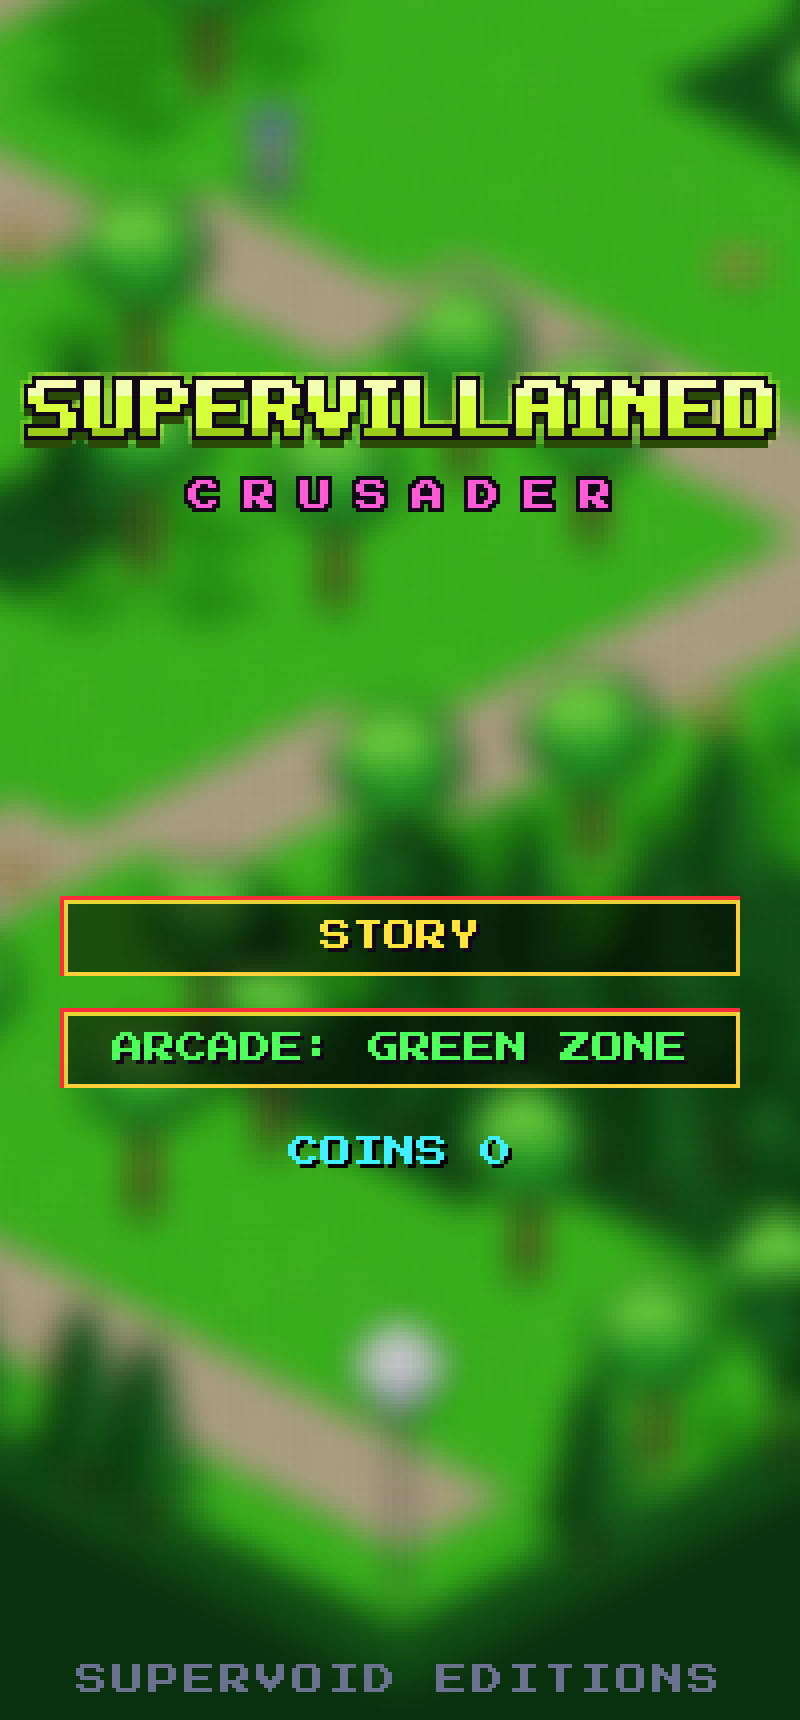
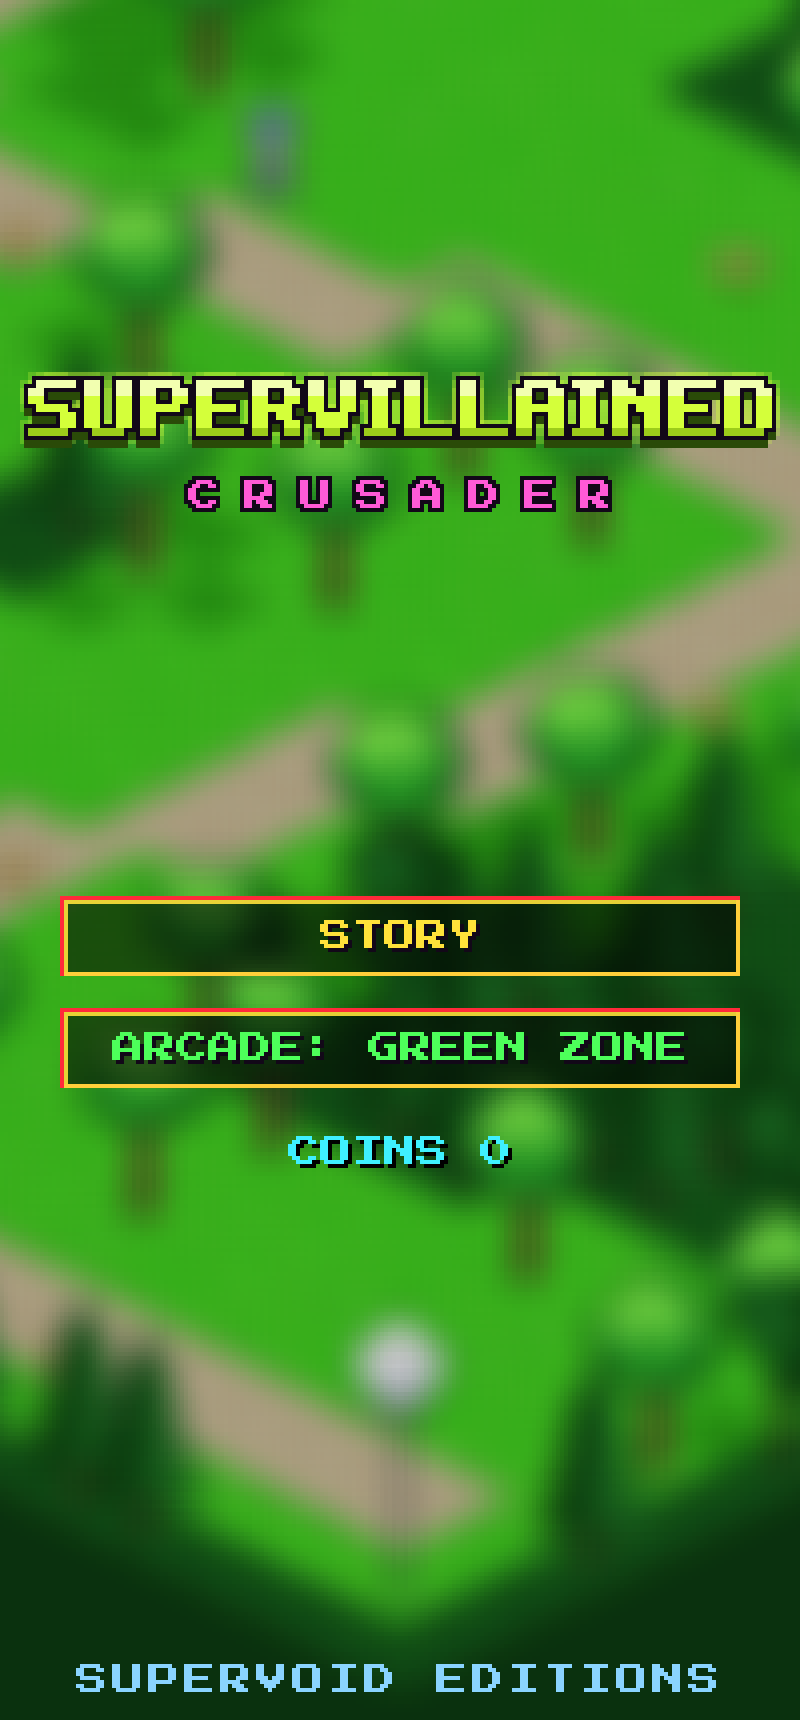
Start the intro music at launch in the app; light-blue footer
In the Android app (Capacitor's WebView needs no gesture for media) the
audio engine starts right away, so the intro music plays as soon as the
title appears. Browsers still start it on the first tap, as they must.
SUPERVOID EDITIONS on the title is now light blue.

Claude-Session: https://claude.ai/code/session_01M83brc3uYNtkMe9oqkk4LQ

Changed region(s): [[0.0938, 0.9552, 0.5, 0.986], [0.5312, 0.9552, 0.9062, 0.986]]

diff --git a/src/core/audio.ts b/src/core/audio.ts
@@ -53,6 +53,9 @@ export class AudioEngine {
         if (this.playingElement && this.wantMusic) void this.playingElement.play().catch(() => {});
       }
     });
+    // Where sound may start without a tap (the Android app: Capacitor's WebView drops the gesture
+    // requirement), start now so the intro music plays as soon as the title appears.
+    if (autoplayAllowed()) this.unlock();
   }
 
   get ready(): boolean {
@@ -258,6 +261,18 @@ export class AudioEngine {
       // Not allowed yet (no gesture): the next unlock() retries.
       if (this.playingElement === playing) this.playingElement = null;
     });
+  }
+}
+
+/** True in the native app, or in a browser that says audio may start without a user gesture. */
+function autoplayAllowed(): boolean {
+  const w = window as unknown as { Capacitor?: { isNativePlatform?: () => boolean } };
+  if (w.Capacitor?.isNativePlatform?.()) return true;
+  const nav = navigator as Navigator & { getAutoplayPolicy?: (type: 'audiocontext') => string };
+  try {
+    return nav.getAutoplayPolicy?.('audiocontext') === 'allowed';
+  } catch {
+    return false;
   }
 }
 

diff --git a/src/scenes/overlays.ts b/src/scenes/overlays.ts
@@ -57,7 +57,7 @@ export class TitleScene extends Overlay {
   private readonly best: PixelText;
   private readonly menu: Menu;
   /** Publisher line: the smallest crisp size of the pixel font (scale 1), dimmed. */
-  private readonly footer = new PixelText('SUPERVOID EDITIONS', { color: '#6a7290', letterSpacing: 1 }).setOrigin(0.5, 1);
+  private readonly footer = new PixelText('SUPERVOID EDITIONS', { color: '#8ad4ff', letterSpacing: 1 }).setOrigin(0.5, 1);
 
   constructor(
     game: Game,

diff --git a/DECISIONS.md b/DECISIONS.md
@@ -321,5 +321,7 @@ itself that it "is not a playable build"; this phase turns it into one, on the s
   puddle; `siren` loops under the "under attack" alarm until the attack ends (and is the fire alarm
   in 7.4); `laser-eyes` is Bagnaskiz's hit on Zampanò. There was no file for the dream, so levels
   2-7 keep the synthesized medieval loop. Capacitor already lets media play without a fresh tap,
-  so music changes work inside the app.
+  so music changes work inside the app, and there the audio starts at launch so the intro music
+  plays on the title without a tap. Browsers forbid sound before the first tap, so on the web it
+  still starts with the first touch or key.
 
